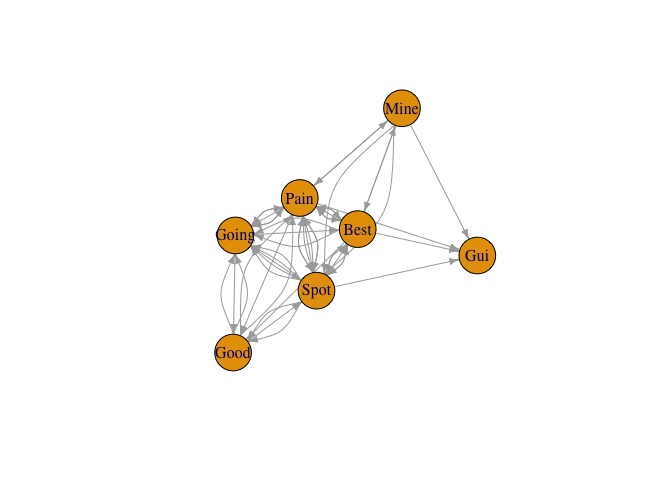
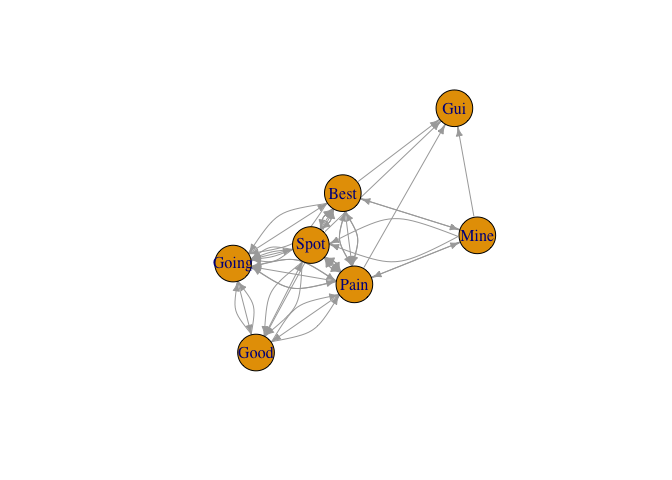
Update to basic model, scaling, and item covariates

Changed region(s): [[0.3125, 0.1875, 0.75, 0.7812]]

diff --git a/PlackettLuce.md b/PlackettLuce.md
@@ -1,7 +1,7 @@
 An Introduction to the Plackett Luce Model
 ================
 Peter Rabinovitch
-2023-03-18 15:20:30
+2023-03-19 11:38:10
 
 ``` r
 library(tidyverse)
@@ -173,6 +173,9 @@ summary(mod)
     ## AIC:  58.588 
     ## Number of iterations: 8
 
+The coefficients are the logarithm of the ‘worth’ of each video,
+relative to the base level 9in tis case ‘Spot’).
+
 ``` r
 coef(mod) # log of worth
 ```
@@ -181,6 +184,9 @@ coef(mod) # log of worth
     ##  0.00000000 -0.31364937 -0.18717966 -0.09438936 -0.77772081  0.49644437 
     ##         Gui 
     ## -1.73958108
+
+qvcalc estimates a proper variance here, allowing for the following plot
+of the likely range of relative (log) worths:
 
 ``` r
 qv <- qvcalc(mod)
@@ -191,6 +197,10 @@ axis(1, at = seq_len(length(coef(mod))), labels = rownames(qv$qvframe), las = 2,
 
 ![](PlackettLuce_files/figure-gfm/unnamed-chunk-12-1.png)<!-- -->
 
+itempar then can be used to ‘un-log’ the worths, and scale tehm by the
+sum in order to get values that sum to one. In other words, itempar(mod)
+== exp(coef(mod))/sum(exp(coef(mod)))
+
 ``` r
 itempar(mod) %>% sort(decreasing = TRUE)
 ```
@@ -198,11 +208,12 @@ itempar(mod) %>% sort(decreasing = TRUE)
     ##       Mine       Spot       Good       Pain       Best      Going        Gui 
     ## 0.28582013 0.17397617 0.15830586 0.14427752 0.12713747 0.07993370 0.03054916
 
-``` r
-# itempar(mod) == exp(coef(mod))/sum(exp(coef(mod)))
-```
+# Scaling to bigger problems
 
-# Scaling to bigger problems —-
+One question that immediately arises is how does the performance
+(wall-clock) scale to increasing problem sizes? Here we have 1k videos
+and 100k viewers, each rating a Poisson distributed number of videos
+with mean five, but at least one.
 
 ``` r
 n_videos <- 1000
@@ -210,7 +221,7 @@ n_viewers <- 100000
 e_n_ratings <- 5
 ```
 
-# this can take a while!
+Just building the data takes (on my laptop) about five minutes.
 
 ``` r
 tic()
@@ -224,10 +235,11 @@ for (i in 1:n_viewers) {
 toc() # 275s
 ```
 
-    ## 281.044 sec elapsed
+    ## 368.06 sec elapsed
+
+Converting to a matrix for the routine is quick, only five seconds
 
 ``` r
-# this can take a while!
 tic()
 R1 <- df_ratings %>%
   pivot_wider(
@@ -242,7 +254,10 @@ R1 <- df_ratings %>%
 toc() # 5s
 ```
 
-    ## 2.788 sec elapsed
+    ## 2.927 sec elapsed
+
+and then actually estimating the model takes a little over a minute and
+uses about 8 GB of memory.
 
 ``` r
 tic()
@@ -255,79 +270,20 @@ mod1 <- PlackettLuce(R1)
 toc()
 ```
 
-    ## 69.445 sec elapsed
+    ## 70.148 sec elapsed
 
 ``` r
 # 70s
-# 773 s, 18 GiB for n_viewers = 1M
 ```
 
-``` r
-tibble(item = 1:length(coef(mod1)), probs = exp(coef(mod1)) / sum(exp(coef(mod1)))) %>%
-  ggplot(aes(x = item, y = probs)) +
-  geom_point(alpha = 0.1) +
-  geom_smooth() +
-  theme_minimal()
-```
+Another experiment, just with 1M viewers took about 13 minutes and used
+about 18 GB.
 
-    ## `geom_smooth()` using method = 'gam' and formula = 'y ~ s(x, bs = "cs")'
+# Video covariates
 
-![](PlackettLuce_files/figure-gfm/unnamed-chunk-18-1.png)<!-- -->
+Now we look atthe video covariates to see how to use them
 
 ``` r
-################################################################################
-# Biased ratings ----
-
-n_videos <- 100
-n_viewers <- 1000
-e_n_ratings <- 5
-```
-
-``` r
-df_ratings <- tibble()
-n_ratings <- pmax(1, rpois(n_viewers, e_n_ratings))
-for (i in 1:n_viewers) {
-  ratings <- sample(n_videos, n_ratings[i], prob = 1:n_videos) # change is here with 'prob'
-  ans <- tibble(rater = i, videos = ratings, ratings = 1:n_ratings[i])
-  df_ratings <- df_ratings %>% bind_rows(ans)
-}
-```
-
-``` r
-R2 <- df_ratings %>%
-  pivot_wider(
-    names_from = videos,
-    values_from = ratings
-  ) %>%
-  select(-rater) %>%
-  mutate(
-    across(everything(), ~ replace_na(.x, 0))
-  ) %>%
-  as.matrix()
-```
-
-``` r
-mod2 <- PlackettLuce(R2)
-```
-
-    ## Rankings with only 1 item set to `NA`
-
-``` r
-tibble(item = 1:length(coef(mod2)), probs = exp(coef(mod2)) / sum(exp(coef(mod2)))) %>%
-  ggplot(aes(x = item, y = probs)) +
-  geom_point(alpha = 0.1) +
-  geom_smooth() +
-  theme_minimal()
-```
-
-    ## `geom_smooth()` using method = 'loess' and formula = 'y ~ x'
-
-![](PlackettLuce_files/figure-gfm/unnamed-chunk-23-1.png)<!-- -->
-
-``` r
-################################################################################
-# Videos, item covariates ----
-
 R3 <- vdf %>%
   pivot_wider(
     names_from = video,
@@ -353,30 +309,34 @@ R3
 
 ``` r
 features <- tibble(
-  video = c("Spot", "Best", "Pain", "Good", "Going", "Mine"), 
-  gender = c("F", "M", "M", "M", "F", "F"), 
-  len = c(10, 15, 8, 20, 20, 70)
+  video = c("Spot", "Best", "Pain", "Good", "Going", "Mine","Gui"), 
+  coding = c("N", "N", "Y", "N", "N", "N", "Y"), 
+  len = c(12, 20, 12, 12, 13, 40, 75)
   )
+
 features
 ```
 
-    ## # A tibble: 6 × 3
-    ##   video gender   len
+    ## # A tibble: 7 × 3
+    ##   video coding   len
     ##   <chr> <chr>  <dbl>
-    ## 1 Spot  F         10
-    ## 2 Best  M         15
-    ## 3 Pain  M          8
-    ## 4 Good  M         20
-    ## 5 Going F         20
-    ## 6 Mine  F         70
+    ## 1 Spot  N         12
+    ## 2 Best  N         20
+    ## 3 Pain  Y         12
+    ## 4 Good  N         12
+    ## 5 Going N         13
+    ## 6 Mine  N         40
+    ## 7 Gui   Y         75
 
 ``` r
 Rr <- R3 %>% as.rankings()
 ```
 
+As described in the vignette, we do the following step to get *rho*
+
 ``` r
-standardPL_PlackettLuce <- PlackettLuce(Rr)
-summary(standardPL_PlackettLuce)
+mod <- PlackettLuce(Rr)
+summary(mod)
 ```
 
     ## Call: PlackettLuce(rankings = Rr)
@@ -396,13 +356,51 @@ summary(standardPL_PlackettLuce)
     ## Number of iterations: 8
 
 ``` r
-# note residual deviance = 37 -> rho = 37/20~2
+# note residual deviance = 46 -> rho = 46/20~2.3
 ```
 
 ``` r
-standardPL <- pladmm(R3, ~ gender + len, data = features, rho = 2)
-summary(standardPL)
+mod <- pladmm(R3, ~ coding + len, data = features, rho = 2.3)
+summary(mod)
 ```
+
+    ## Call: pladmm(rankings = R3, formula = ~coding + len, data = features, rho = 2.3)
+    ## 
+    ## Coefficients:
+    ##             Estimate Std. Error z value Pr(>|z|)  
+    ## (Intercept)   5.1438         NA      NA       NA  
+    ## codingY      -2.6998     1.0925  -2.471   0.0135 *
+    ## len          -0.5267     0.2475  -2.128   0.0333 *
+    ## ---
+    ## Signif. codes:  0 '***' 0.001 '**' 0.01 '*' 0.05 '.' 0.1 ' ' 1
+    ## 
+    ## Residual deviance:  128.23 on 48 degrees of freedom
+    ## AIC:  132.23 
+    ## Number of iterations: 501
+
+Of course we still have the ratings
+
+``` r
+itempar(mod) %>% sort(decreasing = TRUE)
+```
+
+    ##         Spot         Good        Going         Pain         Best         Mine 
+    ## 3.741696e-01 3.741696e-01 2.209737e-01 2.515046e-02 5.536624e-03 1.474642e-07 
+    ##          Gui 
+    ## 9.787839e-17
+
+But we can also see the effect of the video mentioning coding, and the
+effect of video length, on the ratings, and we can predict the rating of
+a new video:
+
+``` r
+mod %>% predict(newdata = tibble(len=10, coding='Y'))
+```
+
+    ##         1 
+    ## -2.822642
+
+# Judge covariates
 
 ``` r
 ################################################################################
@@ -535,25 +533,24 @@ sessionInfo()
     ## other attached packages:
     ##  [1] knitr_1.41         tictoc_1.1         igraph_1.4.1       PlackettLuce_0.4.2
     ##  [5] lubridate_1.9.2    forcats_1.0.0      stringr_1.5.0      dplyr_1.1.0       
-    ##  [9] purrr_1.0.1        readr_2.1.4        tidyr_1.3.0        tibble_3.1.8      
+    ##  [9] purrr_1.0.1        readr_2.1.4        tidyr_1.3.0        tibble_3.2.0      
     ## [13] ggplot2_3.4.1      tidyverse_2.0.0   
     ## 
     ## loaded via a namespace (and not attached):
     ##  [1] Rcpp_1.0.10        mvtnorm_1.1-3      lattice_0.20-45    zoo_1.8-11        
-    ##  [5] digest_0.6.31      utf8_1.2.2         gmp_0.6-9          RSpectra_0.16-1   
+    ##  [5] digest_0.6.31      utf8_1.2.3         gmp_0.6-9          RSpectra_0.16-1   
     ##  [9] R6_2.5.1           evaluate_0.19      highr_0.10         pillar_1.8.1      
-    ## [13] qvcalc_1.0.2       rlang_1.0.6        rstudioapi_0.14    rpart_4.1.19      
-    ## [17] Matrix_1.5-3       partykit_1.2-16    rmarkdown_2.19     labeling_0.4.2    
-    ## [21] splines_4.2.2      bit_4.0.5          munsell_0.5.0      compiler_4.2.2    
-    ## [25] xfun_0.36          pkgconfig_2.0.3    mgcv_1.8-41        CVXR_1.0-11       
-    ## [29] libcoin_1.0-9      htmltools_0.5.4    tidyselect_1.2.0   matrixStats_0.63.0
-    ## [33] fansi_1.0.3        psychotree_0.16-0  tzdb_0.3.0         withr_2.5.0       
-    ## [37] grid_4.2.2         nlme_3.1-161       gtable_0.3.1       lifecycle_1.0.3   
-    ## [41] magrittr_2.0.3     scales_1.2.1       cli_3.6.0          stringi_1.7.8     
-    ## [45] farver_2.1.1       Rmpfr_0.8-9        ellipsis_0.3.2     generics_0.1.3    
-    ## [49] vctrs_0.5.2        sandwich_3.0-2     Formula_1.2-4      tools_4.2.2       
-    ## [53] bit64_4.0.5        glue_1.6.2         hms_1.1.2          fastmap_1.1.0     
-    ## [57] survival_3.5-3     yaml_2.3.6         timechange_0.1.1   colorspace_2.0-3  
-    ## [61] inum_1.0-4         psychotools_0.7-2
+    ## [13] qvcalc_1.0.2       rlang_1.1.0        rstudioapi_0.14    rpart_4.1.19      
+    ## [17] Matrix_1.5-3       partykit_1.2-16    rmarkdown_2.19     splines_4.2.2     
+    ## [21] bit_4.0.5          munsell_0.5.0      compiler_4.2.2     xfun_0.36         
+    ## [25] pkgconfig_2.0.3    CVXR_1.0-11        libcoin_1.0-9      htmltools_0.5.4   
+    ## [29] tidyselect_1.2.0   matrixStats_0.63.0 fansi_1.0.4        psychotree_0.16-0 
+    ## [33] tzdb_0.3.0         withr_2.5.0        grid_4.2.2         gtable_0.3.2      
+    ## [37] lifecycle_1.0.3    magrittr_2.0.3     scales_1.2.1       cli_3.6.0         
+    ## [41] stringi_1.7.12     Rmpfr_0.8-9        ellipsis_0.3.2     generics_0.1.3    
+    ## [45] vctrs_0.5.2        sandwich_3.0-2     Formula_1.2-4      tools_4.2.2       
+    ## [49] bit64_4.0.5        glue_1.6.2         hms_1.1.2          fastmap_1.1.0     
+    ## [53] survival_3.5-3     yaml_2.3.6         timechange_0.1.1   colorspace_2.1-0  
+    ## [57] inum_1.0-4         psychotools_0.7-2
 
 </details>
